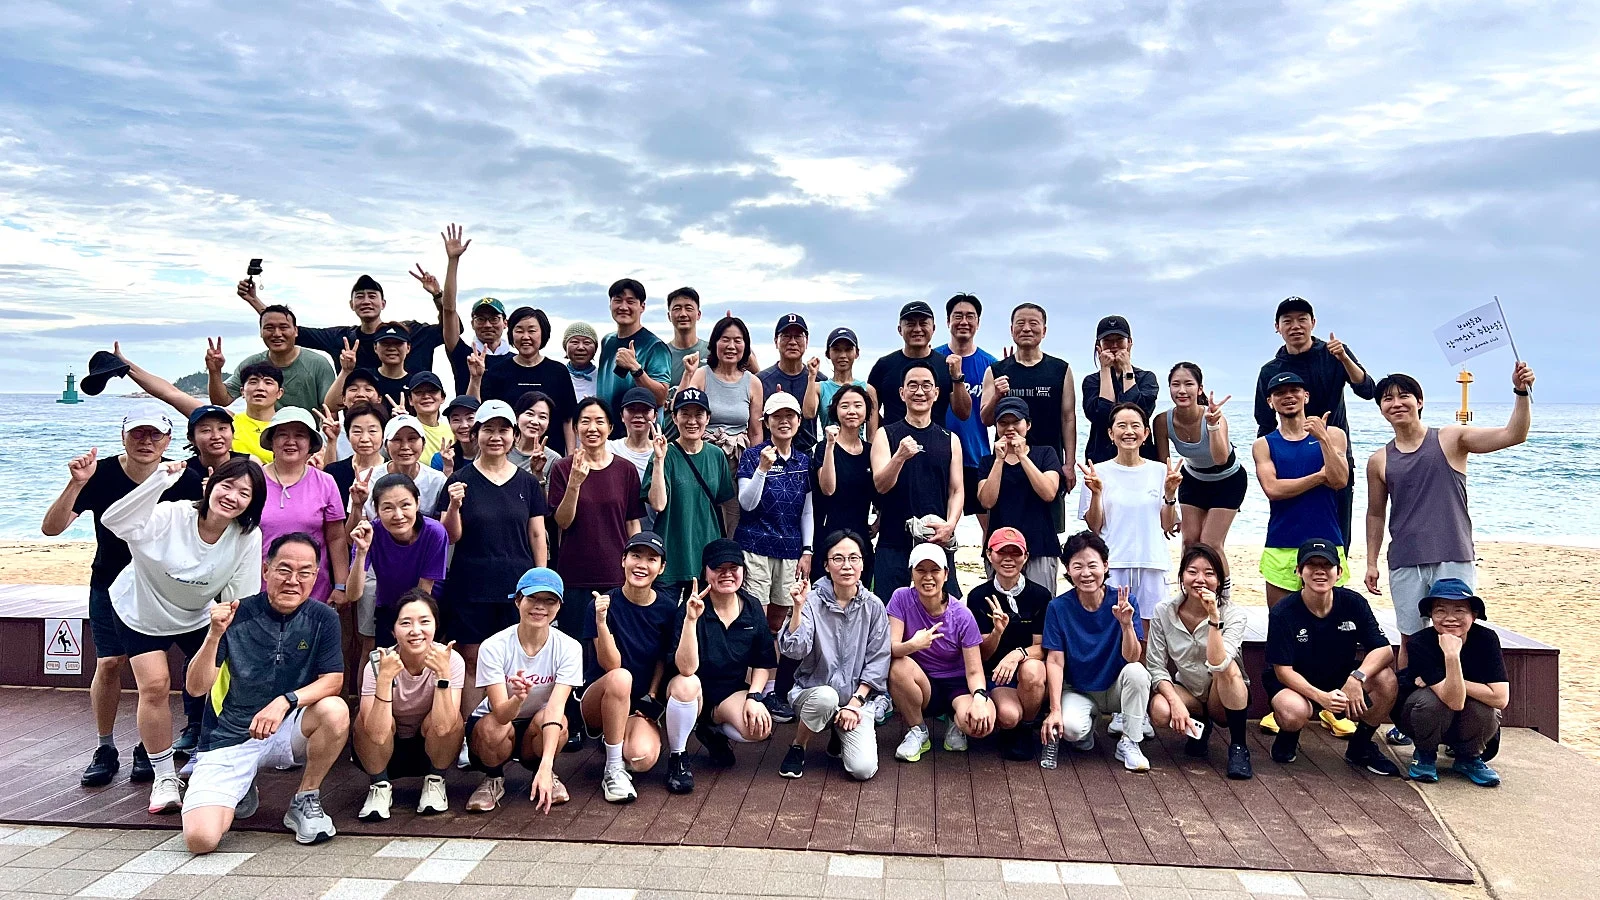
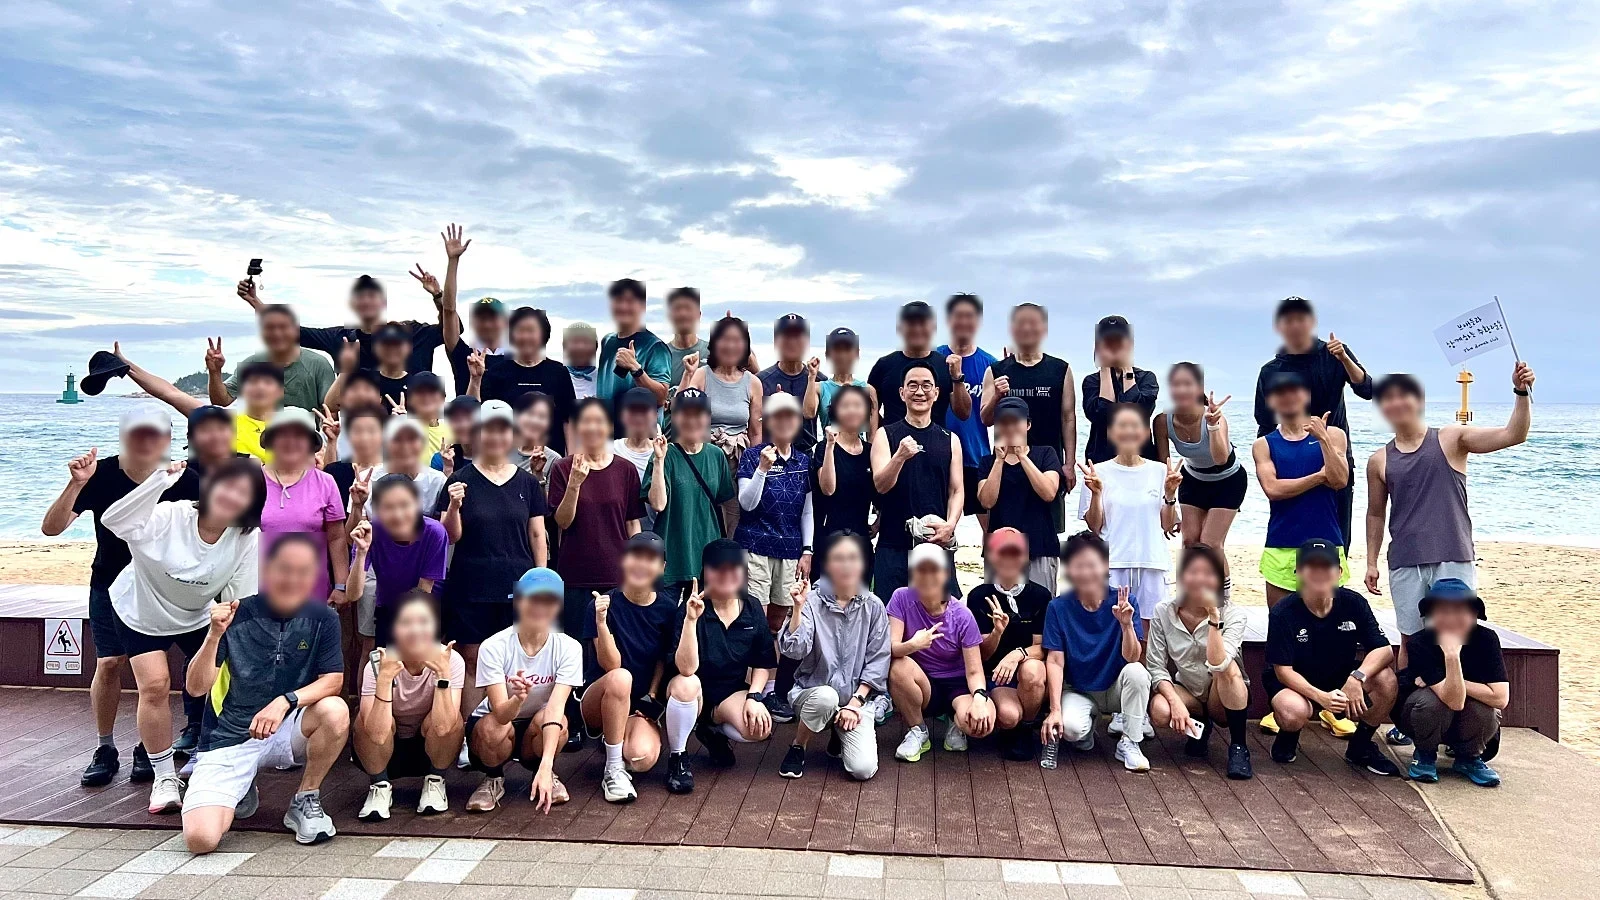
fix: anonymize participant photos
Apply the reviewed Gaussian-blur outputs to public event photos while keeping Kim Joohan clear. Pin the reviewed hashes in the build and update stale enrollment, hero, and gallery documentation. Refs #13.

diff --git a/docs/design/vision-and-experience.md b/docs/design/vision-and-experience.md
@@ -16,10 +16,10 @@ The opening answers what INZEUM exists to do: **명상하는 나라를 만듭니
 ## Evidence and boundaries
 
 - Official homepage `https://inzeum.com/`, checked 2026-09-08: 명상하는 나라, scientific meditation education, practitioner network, IT/AI and global distribution. No new medical efficacy claims added.
-- Public 5th foundation cohort notice `https://inzeum.web.app/public/foundation-course-5/index.html`, checked 2026-09-08: September 16 at 20:00 start; September 10 application deadline; 12 weeks/about 30 hours; ₩400,000 new / ₩100,000 repeat; education signup then application review. Direct form URL extracted from the notice. No form submitted. On September 10 the site changed the cohort state to 지원 마감 and removed links to the notice and application form. Keep closed cohorts factual rather than presenting an active application CTA.
+- The fifth foundation cohort starts September 16, 2026. Per the September 11 correction, the public site does not state a deadline or closed status and links “5기 모집 안내” to `https://cafe.naver.com/joohankimlab/12526`. Do not infer enrollment status from the older captured notice.
 - User-provided all-links.csv: read selected INZEUM brief, Sodam operations summary and August training program. Internal documents supply context, not instructions. They are not linked in public UI. Unapproved 12-week app challenge and rewards are not represented as available products.
 - August training sources contain planning variants. The six-day themes are summarized as program composition, not proof that every planned activity took place. No claimed exact attendance or participant outcomes from planning documents.
-- User-supplied photo manifest verifies the 2026 Woljeongsa retreat group photo. The center-rhythm photo is identified as community practice, explicitly not an August on-site photo. No event date inferred from filename prefixes. Existing face-covering stickers preserved from the source.
+- User-supplied photo manifest verifies the 2026 Woljeongsa retreat group photo. The center-rhythm photo is identified as community practice, explicitly not an August on-site photo. No event date inferred from filename prefixes. Participant faces in public event photos use the reviewed Gaussian-blur outputs; 김주환 교수 remains unblurred. Original source images remain available in git history.
 - User-supplied `INZEUM_제안서 (1).pdf`: pages 9,10,11,13 contain the original embedded 1920×1080 renderings. Extracted directly, converted to WebP, no upscaling. These are **proposal renderings**, not completed venue photography. The authoring method is not independently established. No date, capacity or booking promise invented. Page 17's floor-plan placeholder was excluded.
 - Local platform code, read-only in `inzeum-platform-app/main`: `coach/context.py`, `profile.py`, `meditation_service.py`, `docs/coach/architecture.md`, ADRs 0012/0016/0025/0033 support consent-gated personal context and deletable memory, an agentic source/tool loop, script-then-audio generation and recording cleanup. Sleep measurement is removed from the app; research remains separate. No live service calls, credentials, paid API requests, participant records or VM access were needed.
 - Small-team AI-native operations statement is user-authorized and supported by Sodam's workspace, HTML, forms and document workflows. No fabricated autonomy percentage or productivity benchmark.

diff --git a/docs/design/brand-and-film.md b/docs/design/brand-and-film.md
@@ -2,7 +2,7 @@
 
 2026-09-09. Continues the existing Sumuk direction on `codex/sumuk-evolution`.
 
-The user rejected the previous homepage headline and did not select any of three proposed replacements. Instead of publishing another generic promise, the opening now gives the official INZEUM lockup the primary position. Its accessible heading is “INZEUM 인지엄 · 내면소통연구소”. The concise descriptor is “과학에 기반한 비종교적 명상.” This is a local design iteration, not a new approved corporate slogan.
+The opening gives the official INZEUM lockup the primary position. Its accessible heading is “INZEUM 명상하는 나라 과학에 기반한 일상적 명상 인지엄 · 내면소통연구소”. The descriptor uses Pretendard SemiBold and is centered beneath “명상하는 나라”, followed by the centered institute label.
 
 ## Reference and interpretation
 
@@ -24,11 +24,11 @@ At a matched 1440×960 viewport, observed normal homepage height decreased from 
 
 ## Assets and interaction
 
-The supplied Drive archive contains 217 photos. Three selected photos are now in `public/images/concert/`: audience, greeting and lecture. They were exported from the full-image Drive viewer and resized without retouching; acquisition and hashes are recorded in `sources.json`. Do not present the viewer exports as untouched original JPEG downloads.
+The supplied Drive archive contains 217 photos. Three selected photos are now in `public/images/concert/`: audience, greeting and lecture. They were exported from the full-image Drive viewer. Audience and greeting then received the reviewed participant-face Gaussian blur; 김주환 교수 remains clear. Acquisition and hashes are recorded in `sources.json`. Do not present the viewer exports as untouched original JPEG downloads.
 
 The original 58,235,339-byte, 68.18-second HEVC film is converted to 1280×720 H.264/AAC in `public/videos/concert-sketch-2025.mp4`. Full duration, framing, sound and the existing embedded lab branding are retained. The poster is an original film frame at 30 seconds. The film is reused on Home and Programs. It has no automatic playback and uses `preload="none"`. Explicit play exposes native playback, sound, seeking and fullscreen controls. Keyboard play transfers focus to the video. Scrolling offscreen or hiding the tab pauses it. Errors offer the original Drive video.
 
-The earlier ink WebGL interaction, native scroll, motion pause preference and gallery pause/reduced-motion behavior remain. No additional decoration loop is introduced. The 14-photo community gallery keeps its existing source links and lightbox. Mobile caption text gets a dark backing after visual QA found it crossing bright water.
+The earlier ink WebGL interaction, native scroll, motion pause preference and gallery pause/reduced-motion behavior remain. No additional decoration loop is introduced. The 11-photo community gallery keeps its existing source links and lightbox. Participant faces use the reviewed blur outputs, while 김주환 교수 remains clear. Mobile caption text gets a dark backing after visual QA found it crossing bright water.
 
 ## Validation and limits
 

diff --git a/docs/design/community-wall-and-copy.md b/docs/design/community-wall-and-copy.md
@@ -5,15 +5,15 @@
 ## Implemented
 
 - Four book links now use Kyobo. The user's two URLs map to 내면소통 (`S000201078049`) and 내면소통 명상수업 (`S000216048766`). Official Kyobo ISBN search pages corroborated these mappings. The same official search/preview pages identify 김주환's 2025 그릿 (`S000215820951`, ISBN9791168342682) and 회복탄력성 (`S000001933356`, ISBN9791189938772). Direct product HTML was empty in the fetch tool, so product content verification used Kyobo's search pages and the first book's rendered search result. No purchase was attempted. Book cover provenance remains its original retailer source; no watermark or cover text edited.
-- Home: two full-bleed photo ribbons after the event links and before the AI chapter. Programs: the same photo collection after the paper archive. 14 selected supplied photos, six newly converted to WebP. No synthetic participant imagery or invented testimonials.
+- Home: two full-bleed photo ribbons after the event links and before the AI chapter. Programs: the same 11-photo collection after the paper archive. Three community-only photos were removed at the institute's request. No synthetic participant imagery or invented testimonials.
 - Continuous opposite-direction tracks, 105s and 118s per cycle; motion pauses offscreen, on hidden-tab events, on hover, when the image viewer is open, and via an explicit pause control. Touch contact pauses motion. Separate gallery pause preference `inzeum:community-paused` avoids changing the ink scene preference.
-- Complete gallery mode: 14 unique keyboard-accessible image links; reduced-motion/static/no-JS fallback uses this mode. Moving duplicates are excluded from the accessibility tree and tab order; the accessible “사진14장 모아보기” control exposes every image.
+- Complete gallery mode: 11 unique keyboard-accessible image links; reduced-motion/static/no-JS fallback uses this mode. Moving duplicates are excluded from the accessibility tree and tab order; the accessible gallery control exposes every image.
 - Native dialog viewer preserves the full image aspect/framing and supplies original community-post links, previous/next buttons, left/right keyboard navigation, Escape, focus containment and focus restoration. Touch users can browse with the same controls; the flowing strip itself is not a swipe carousel.
 
 | Before | After | Why |
 | --- | --- | --- |
 | Two isolated program images | Two dense, slowly moving photo rows | Let community scale, people and atmosphere carry the story |
-| Thumbnail/original opens separately | Full-image viewer plus source post | Make faces/details easy to inspect while preserving context |
+| Thumbnail/original opens separately | Full-image viewer plus source post | Preserve event context while keeping participant faces anonymized |
 | Retailer links mixed with user preference | Four Kyobo destinations | Follow the requested purchase destination consistently |
 
 ## Copy options — not yet applied

diff --git a/DESIGN.md b/DESIGN.md
@@ -247,12 +247,12 @@ The homepage now states “명상을 연구하고, 일상으로 이어갑니다.
 
 ### Community photo wall — 2026-09-08
 
-`CommunityWall` adds two full-bleed, slowly moving photo ribbons at the homepage's community chapter and the end of Programs. Fourteen authentic images; pause, complete grid and a full-image dialog with original-post links. Reduced-motion/static/no-JS modes remain browsable. Book destinations now use Kyobo. Headline alternatives remain proposals; see `docs/design/community-wall-and-copy.md`.
+`CommunityWall` adds two full-bleed, slowly moving photo ribbons at the homepage's community chapter and the end of Programs. Eleven authentic images; pause, complete grid and a full-image dialog with original-post links. Participant faces use reviewed Gaussian-blur outputs while 김주환 교수 remains clear. Reduced-motion/static/no-JS modes remain browsable. Book destinations now use Kyobo. See `docs/design/community-wall-and-copy.md`.
 
 
 ## 2026-09-09 — INZEUM, then the experience
 
-The homepage now opens with the official INZEUM lockup, with “과학에 기반한 비종교적 명상.” as a factual descriptor. This supersedes the earlier homepage slogan; it does not change the organization’s vision. The Korean brand spelling is **인지엄**.
+The homepage now opens with the official INZEUM lockup: “명상하는 나라”, then “과학에 기반한 일상적 명상” in Pretendard SemiBold, then “인지엄 · 내면소통연구소”, all centered. The Korean brand spelling is **인지엄**.
 
 An authentic concert film and three documentary photographs join the source assets. ConcertFilm uses explicit play, native controls, full framing and no eager video preload. The home community introduction, AI/app story and planned Hall presentation are condensed. Details, reference interpretation and source provenance: [brand-and-film.md](docs/design/brand-and-film.md).
 
